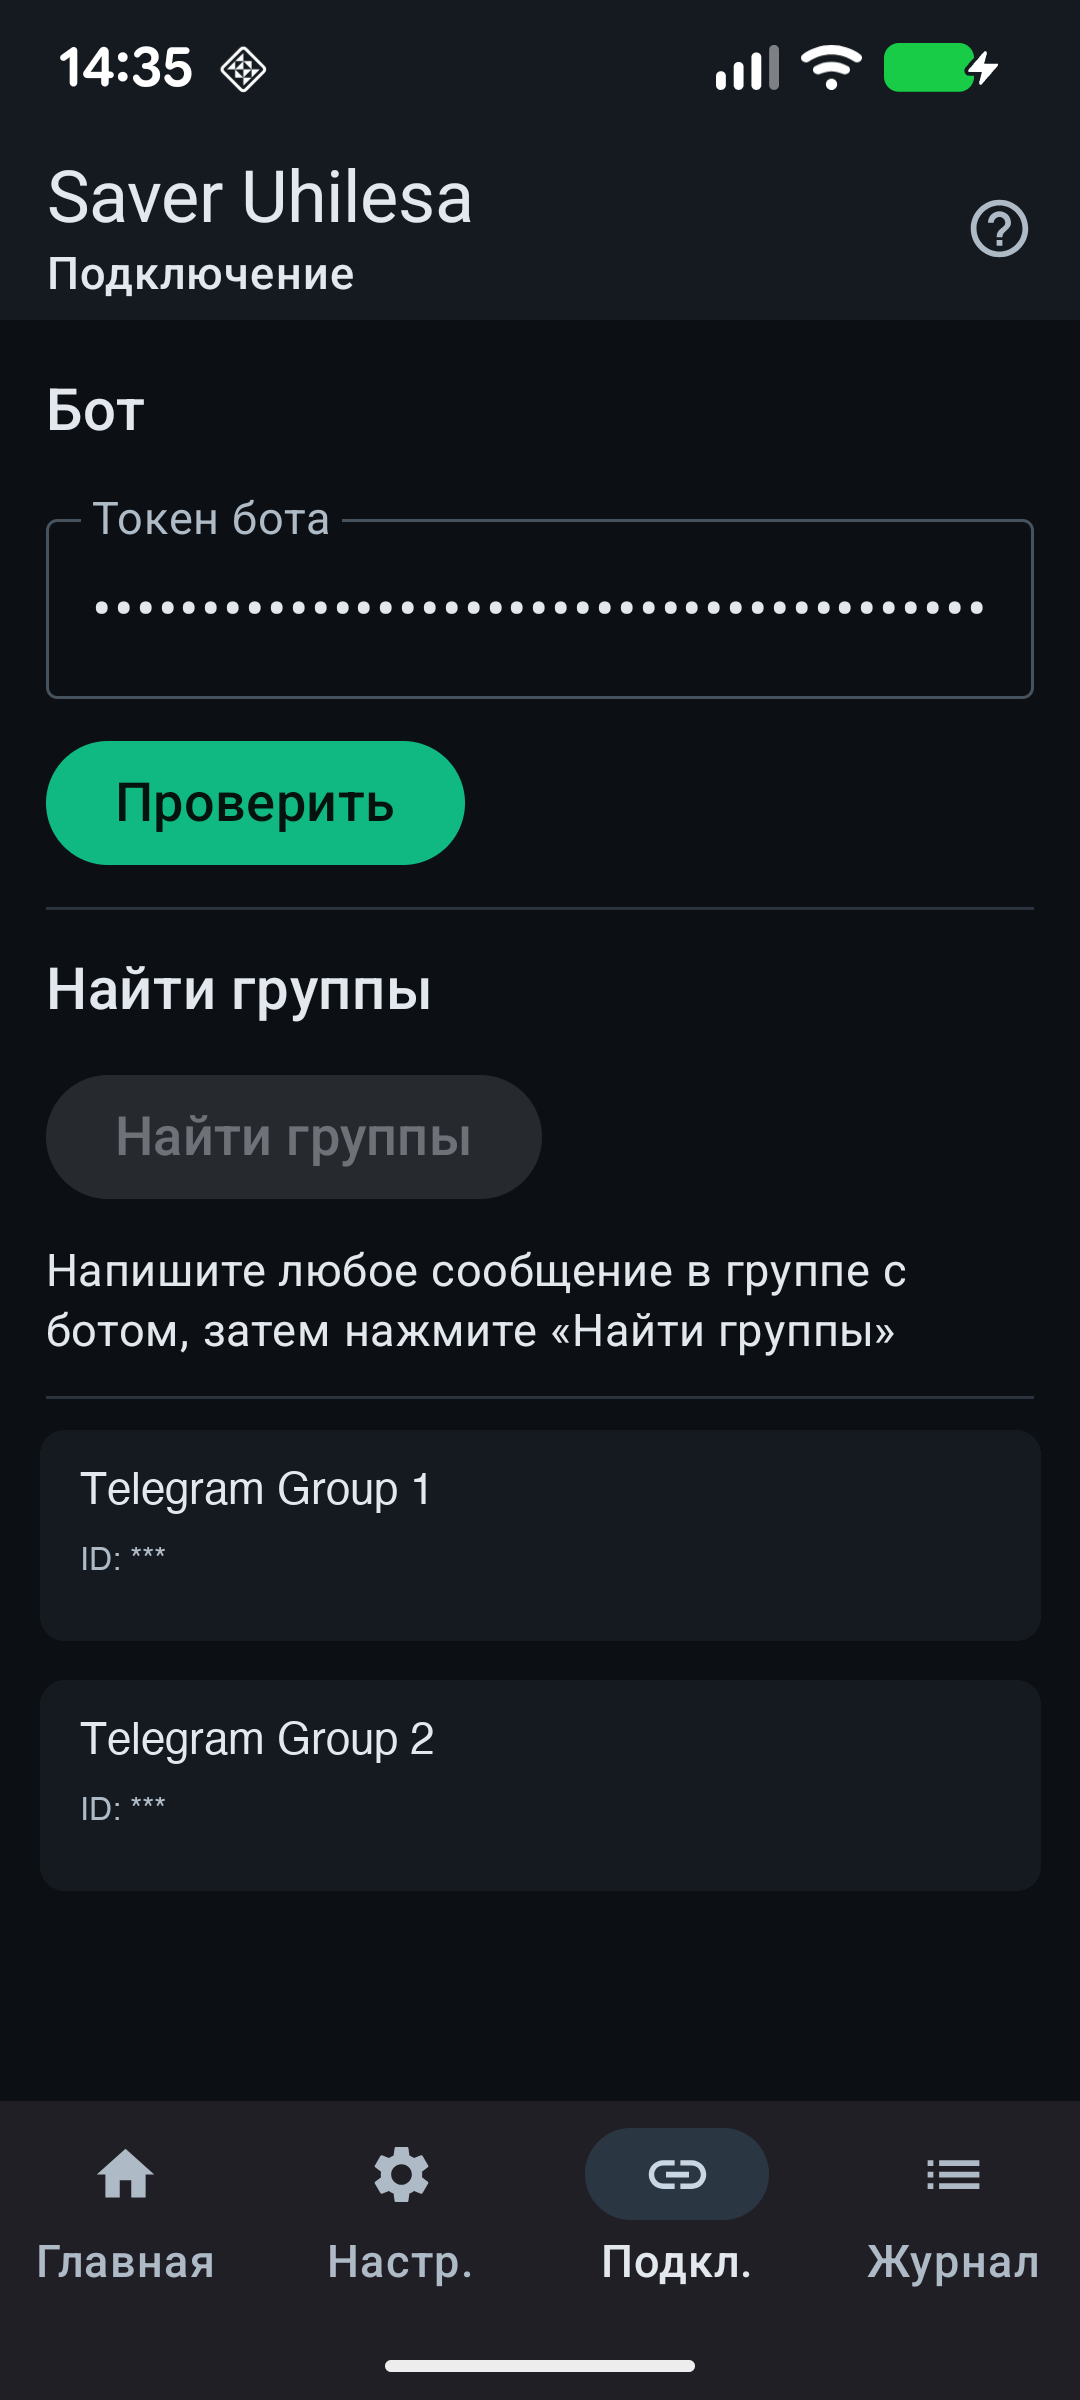
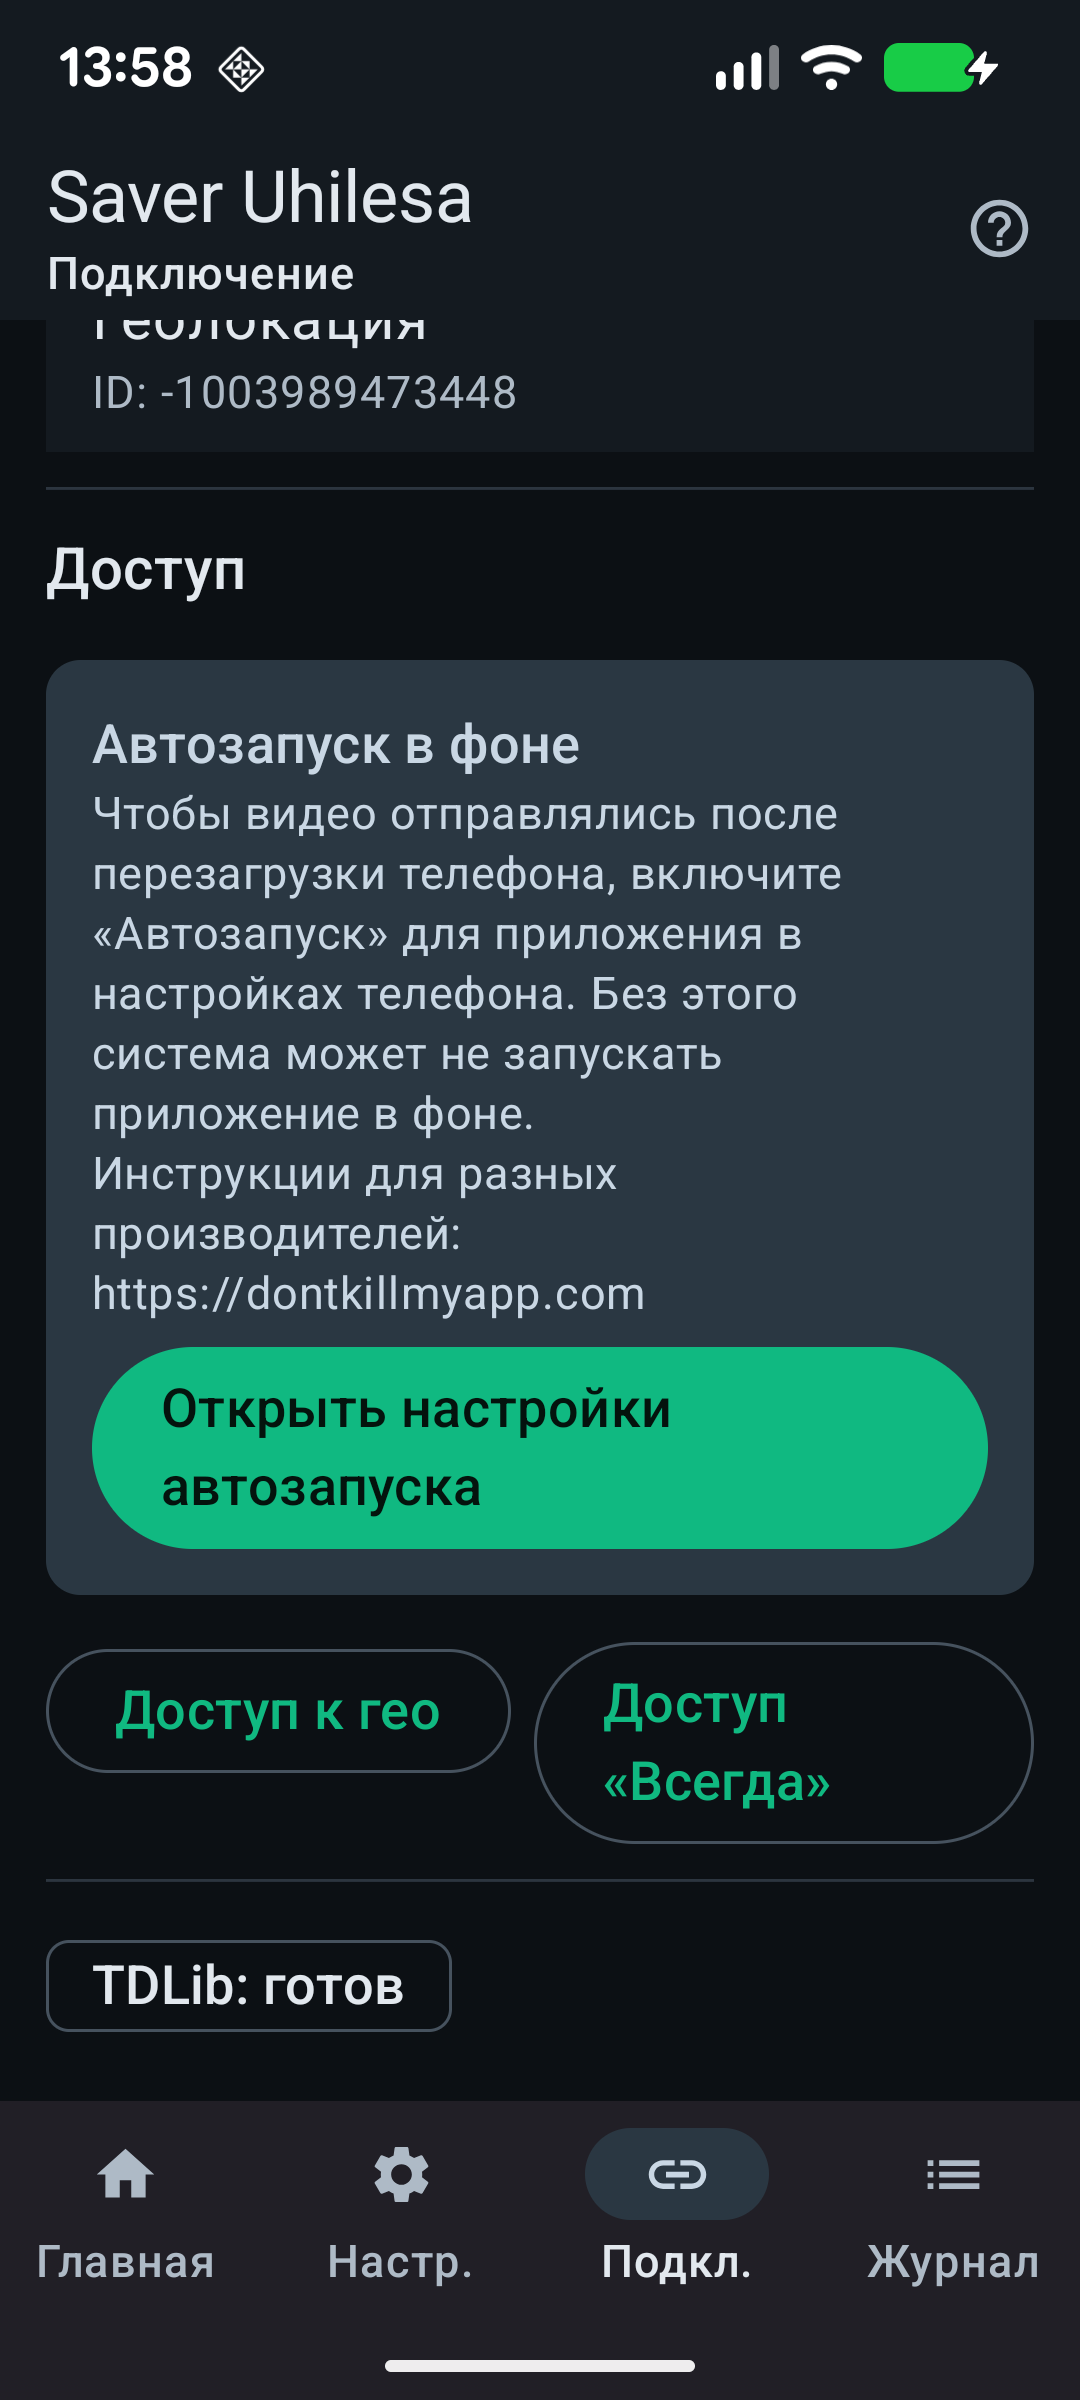
site: update to v1.5

diff --git a/index.html b/index.html
@@ -19,7 +19,7 @@
       <a href="https://github.com/didroman/saver-uhilesa/releases/latest/download/saver_uhilesa.apk" class="btn btn--primary btn--lg">
         Скачать APK
       </a>
-      <p class="hero__version">v1.4 &middot; Android&nbsp;8.0+ &middot; ~87&nbsp;МБ</p>
+      <p class="hero__version">v1.5 &middot; Android&nbsp;8.0+ &middot; ~88&nbsp;МБ</p>
     </div>
   </header>
 
@@ -137,13 +137,17 @@
     <div class="container download-block">
       <h2 class="section__title">Скачать</h2>
       <div class="download-info">
-        <p><strong>Версия:</strong> 1.4</p>
-        <p><strong>Размер:</strong> ~87 МБ (4 ABI + TDLib)</p>
+        <p><strong>Версия:</strong> 1.5</p>
+        <p><strong>Размер:</strong> ~88 МБ (4 ABI + TDLib)</p>
         <p><strong>Требуется:</strong> Android 8.0 (API 26) и выше</p>
       </div>
       <a href="https://github.com/didroman/saver-uhilesa/releases/latest/download/saver_uhilesa.apk" class="btn btn--primary btn--lg">
         Скачать APK
       </a>
+      <p class="download-note">
+        Исходный код:
+        <a href="https://github.com/didroman/saver-uhilesa" target="_blank" rel="noopener">github.com/didroman/video_checker</a>
+      </p>
     </div>
   </section>
 
@@ -186,6 +190,8 @@
   <footer class="footer">
     <div class="container">
       <p>
+        <a href="https://github.com/didroman/saver-uhilesa" target="_blank" rel="noopener">GitHub</a>
+        &middot;
         <a href="#" class="footer__privacy">Privacy Policy</a>
       </p>
       <p class="footer__copy">&copy; 2026 Saver Uhilesa</p>